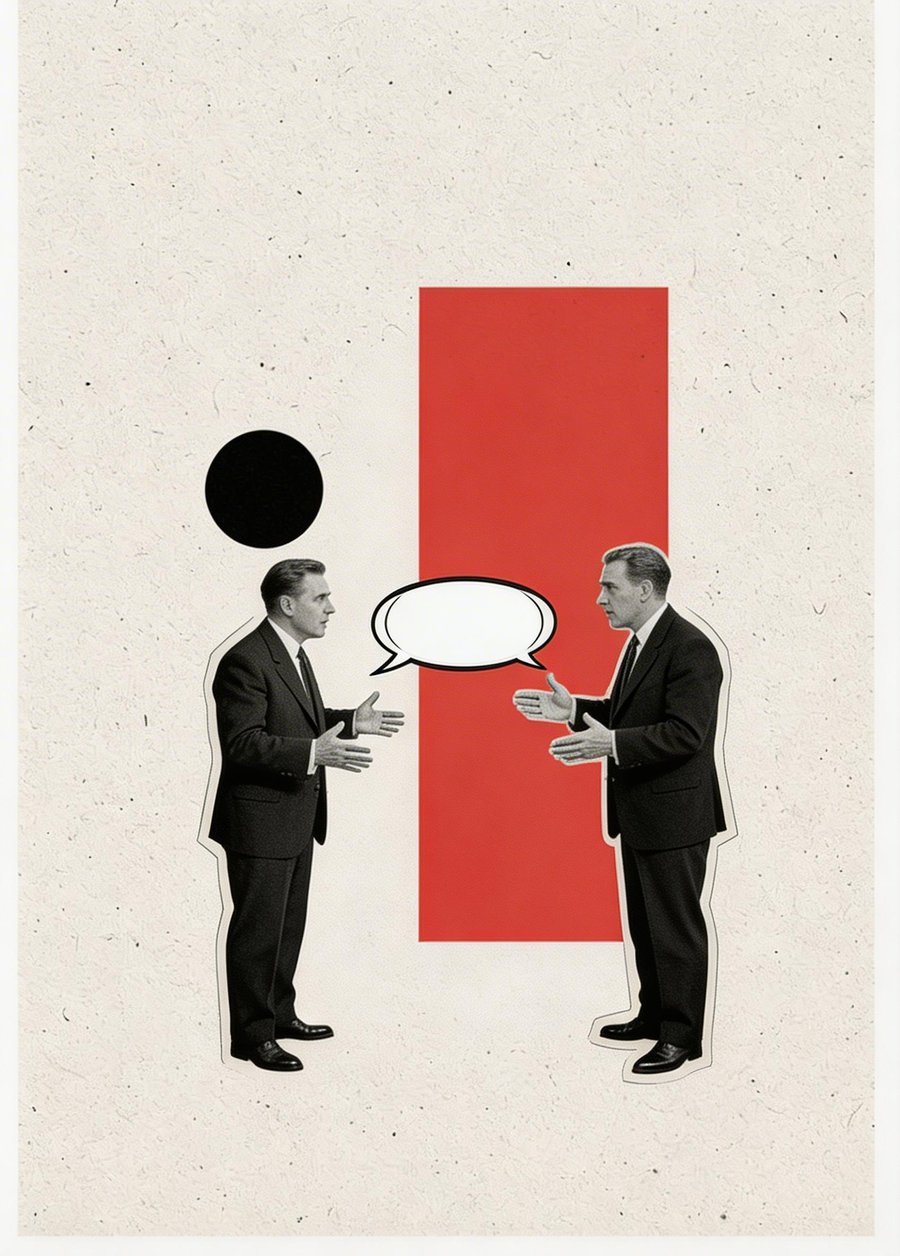
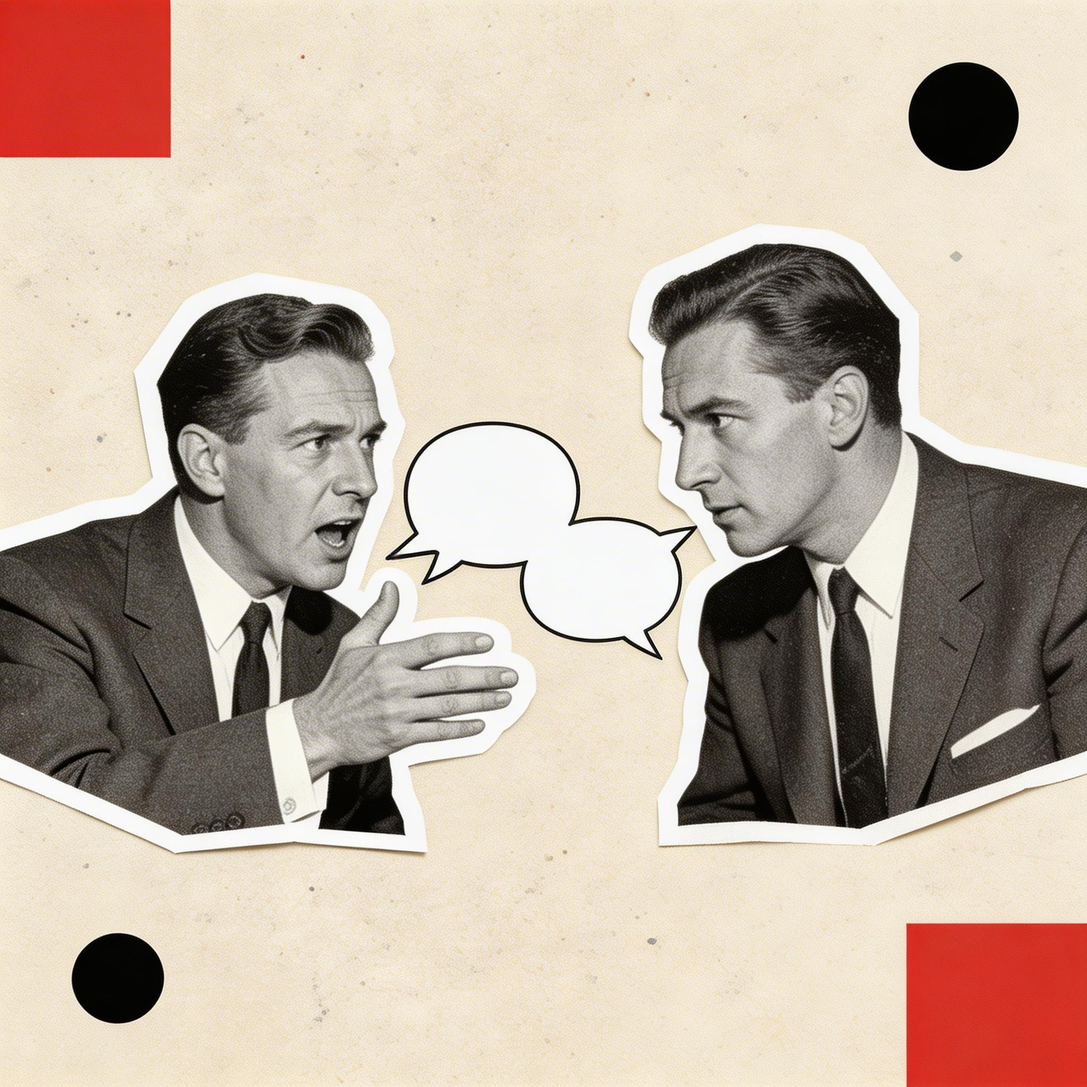
Implement 2-stage image generation pipeline
- Analyze montage style → generate from scratch (no reference copying)
- Original compositions with human figures
- Editorial collage aesthetic: cream paper, red/black accents, B&W cutouts
- Legally safe: pure text-to-image generation

🤖 Generated with [Claude Code](https://claude.com/claude-code)

diff --git a/hugo-site/scripts/imagegen.py b/hugo-site/scripts/imagegen.py
@@ -1,60 +1,140 @@
 #!/usr/bin/env python3
 """
-BytePlus Seedream Image Generation Service
+cmul8 Image Generation Pipeline
+
+Two-stage approach:
+1. Analyze reference images with vision model to extract style
+2. Generate original images from scratch using style description + content prompt
+
 Usage:
-    python imagegen.py "your prompt here" output.jpg
-    python imagegen.py --blog  # Generate all blog banners
-    python imagegen.py --ref image.png "prompt" output.jpg  # With reference image
+    python imagegen.py --blog                    # Generate all blog banners
+    python imagegen.py --analyze ref.png         # Analyze a reference image
+    python imagegen.py "prompt" output.jpg       # Generate single image
 """
 
 import requests
+import base64
 import sys
 import os
-import base64
+import json
 from pathlib import Path
 
-API_URL = "https://ark.ap-southeast.bytepluses.com/api/v3/images/generations"
+# BytePlus API Configuration
+API_BASE = "https://ark.ap-southeast.bytepluses.com/api/v3"
 API_KEY = os.environ.get("BYTEPLUS_API_KEY")
-MODEL = "seedream-5-0-260128"
+
+# Models
+VISION_MODEL = "seed-2-0-lite-260228"  # For style analysis (supports vision)
+IMAGE_MODEL = "seedream-5-0-260128"  # For generation
 
 if not API_KEY:
     print("Error: Set BYTEPLUS_API_KEY environment variable")
     sys.exit(1)
 
+
 def image_to_base64(image_path: str) -> str:
     """Convert image file to base64 data URI"""
     with open(image_path, "rb") as f:
         data = base64.b64encode(f.read()).decode()
-    ext = Path(image_path).suffix.lower()
-    mime = {"png": "image/png", "jpg": "image/jpeg", "jpeg": "image/jpeg", "webp": "image/webp"}.get(ext[1:], "image/png")
+    ext = Path(image_path).suffix.lower().lstrip('.')
+    mime = {"png": "image/png", "jpg": "image/jpeg", "jpeg": "image/jpeg"}.get(ext, "image/png")
     return f"data:{mime};base64,{data}"
 
-def generate_image(prompt: str, output_path: str, size: str = "2K", watermark: bool = False, reference_image: str = None) -> str:
-    """Generate an image using BytePlus Seedream API"""
 
+def analyze_style(reference_images: list) -> str:
+    """
+    Stage 1: Analyze reference images to extract style description
+    Returns a detailed style prompt for image generation
+    """
     headers = {
         "Content-Type": "application/json",
         "Authorization": f"Bearer {API_KEY}"
     }
 
+    # Build content with all reference images
+    content = []
+    for img_path in reference_images:
+        content.append({
+            "type": "image_url",
+            "image_url": {"url": image_to_base64(img_path)}
+        })
+
+    content.append({
+        "type": "text",
+        "text": """Analyze these editorial collage/montage illustrations and describe their visual style in detail.
+
+Focus on:
+1. Color palette (specific colors, tones, contrast)
+2. Composition style (layering, arrangement, negative space)
+3. Texture and materials (paper, printing effects, grain)
+4. Figure treatment (how people are depicted - cutout style, scale, positioning)
+5. Geometric elements (shapes, lines, accents)
+6. Overall aesthetic mood
+
+Output a concise style description (2-3 sentences) that could be used as a prompt to generate NEW, ORIGINAL images in this same aesthetic. Do NOT describe the specific content of these images - only the visual style and technique."""
+    })
+
     payload = {
-        "model": MODEL,
-        "prompt": prompt,
-        "response_format": "url",
-        "size": size,
-        "stream": False,
-        "watermark": watermark
+        "model": VISION_MODEL,
+        "messages": [{"role": "user", "content": content}],
+        "max_tokens": 500
     }
 
-    if reference_image:
-        payload["image"] = [image_to_base64(reference_image)]
-        print(f"Using reference: {reference_image}")
-
-    print(f"Generating: {prompt[:60]}...")
-    response = requests.post(API_URL, headers=headers, json=payload, timeout=120)
+    print("Analyzing reference styles...")
+    response = requests.post(
+        f"{API_BASE}/chat/completions",
+        headers=headers,
+        json=payload,
+        timeout=60
+    )
 
     if response.status_code != 200:
-        print(f"Error: {response.text}")
+        print(f"Vision API error: {response.text}")
+        return None
+
+    result = response.json()
+    style_description = result["choices"][0]["message"]["content"]
+    print(f"Style extracted: {style_description[:100]}...")
+    return style_description
+
+
+def generate_image(content_prompt: str, style_prompt: str, output_path: str) -> str:
+    """
+    Stage 2: Generate original image from scratch using content + style prompts
+    NO reference images passed - purely text-to-image
+    """
+    headers = {
+        "Content-Type": "application/json",
+        "Authorization": f"Bearer {API_KEY}"
+    }
+
+    # Combine style and content into a detailed prompt
+    full_prompt = f"""{style_prompt}
+
+Subject matter: {content_prompt}
+
+Important: Create an original artistic composition. Include human figures prominently. No text or watermarks."""
+
+    payload = {
+        "model": IMAGE_MODEL,
+        "prompt": full_prompt,
+        "response_format": "url",
+        "size": "2K",
+        "stream": False,
+        "watermark": False
+        # NO "image" parameter - generating from scratch
+    }
+
+    print(f"Generating: {content_prompt[:50]}...")
+    response = requests.post(
+        f"{API_BASE}/images/generations",
+        headers=headers,
+        json=payload,
+        timeout=120
+    )
+
+    if response.status_code != 200:
+        print(f"Generation error: {response.text}")
         return None
 
     data = response.json()
@@ -63,60 +143,76 @@ def generate_image(prompt: str, output_path: str, size: str = "2K", watermark: b
     # Download the image
     img_response = requests.get(image_url, timeout=60)
     if img_response.status_code == 200:
-        # Ensure directory exists
         Path(output_path).parent.mkdir(parents=True, exist_ok=True)
         with open(output_path, "wb") as f:
             f.write(img_response.content)
         print(f"Saved: {output_path}")
         return output_path
-    else:
-        print(f"Failed to download image")
-        return None
+    return None
 
 
 def generate_blog_banners():
-    """Generate banners for all blog posts using montage collage style"""
+    """Generate all blog banners using editorial montage style"""
 
-    base_path = Path(__file__).parent.parent / "static" / "images" / "blog"
-    ref_image = Path(__file__).parent.parent.parent / "reference.png"
+    output_dir = Path(__file__).parent.parent / "static" / "images" / "blog"
 
-    # Montage collage style prompts inspired by reference
+    # Pre-analyzed style from reference montage images:
+    # - Cream/beige textured paper backgrounds with subtle grain
+    # - Bold red rectangles and black circles as geometric accents
+    # - Vintage black-and-white cutout photography of human figures
+    # - Layered composition with overlapping elements
+    # - Editorial magazine collage aesthetic
+    # - Muted earth tones with pops of saturated red
+
+    style = """Editorial collage montage illustration style. Cream-colored textured paper background with subtle grain and speckles.
+Bold geometric shapes as accents: red rectangles and black circles. Human figures rendered in vintage black-and-white
+cutout photography style with white outlines, positioned dynamically in layered compositions. Retro magazine aesthetic
+with overlapping visual elements. Color palette: cream, black, muted grays, with bold red accents.
+No photorealistic rendering - maintain illustrated collage look with visible paper textures and cut edges."""
+
+    print(f"Using pre-analyzed montage style")
+    print(f"{'='*60}\n")
+
+    # Generate original banners from scratch (NO reference images)
     banners = [
         {
-            "prompt": "Editorial collage montage style, vintage paper texture background, two business people in difficult conversation, speech bubbles, red and black geometric accents, cut-out photography style, retro magazine aesthetic, cream background, no text",
-            "output": base_path / "negative-feedback.jpg"
+            "content": "Two business professionals in suits having an intense face-to-face conversation, speech bubbles between them, one gesturing while speaking, the other listening intently",
+            "output": output_dir / "negative-feedback.jpg"
         },
         {
-            "prompt": "Editorial collage montage style, vintage paper texture background, person climbing ladder of success, desk and office elements, red geometric rectangle accent, black circle, cut-out photography style, retro magazine aesthetic, cream background, no text",
-            "output": base_path / "first-time-manager.jpg"
+            "content": "Person in business attire climbing a tall ladder, reaching toward the top, smaller figures of team members below looking up, desk and office items scattered artistically",
+            "output": output_dir / "first-time-manager.jpg"
         },
         {
-            "prompt": "Editorial collage montage style, vintage paper texture background, person with shield or boundary gesture, workplace scene, red and black geometric shapes, cut-out photography style, retro magazine aesthetic, cream background, no text",
-            "output": base_path / "say-no.jpg"
+            "content": "Confident professional with hand raised in stop gesture, papers and documents floating around them, maintaining calm composure amid chaos, clock elements showing time pressure",
+            "output": output_dir / "say-no.jpg"
         }
     ]
 
     for banner in banners:
-        generate_image(banner["prompt"], str(banner["output"]), reference_image=str(ref_image) if ref_image.exists() else None)
+        generate_image(banner["content"], style, str(banner["output"]))
 
     print("\nAll blog banners generated!")
 
 
 if __name__ == "__main__":
     if len(sys.argv) < 2:
-        print("Usage:")
-        print("  python imagegen.py 'prompt' output.jpg")
-        print("  python imagegen.py --ref image.png 'prompt' output.jpg")
-        print("  python imagegen.py --blog")
+        print(__doc__)
         sys.exit(1)
 
     if sys.argv[1] == "--blog":
         generate_blog_banners()
-    elif sys.argv[1] == "--ref" and len(sys.argv) >= 5:
-        generate_image(sys.argv[3], sys.argv[4], reference_image=sys.argv[2])
+    elif sys.argv[1] == "--analyze":
+        if len(sys.argv) < 3:
+            print("Usage: python imagegen.py --analyze image.png")
+            sys.exit(1)
+        style = analyze_style([sys.argv[2]])
+        if style:
+            print(f"\nStyle description:\n{style}")
     elif len(sys.argv) >= 3:
-        generate_image(sys.argv[1], sys.argv[2])
+        # Simple generation with default style
+        default_style = "Editorial collage montage style with vintage paper texture, bold geometric shapes, cutout photography aesthetic, muted earth tones with red and black accents"
+        generate_image(sys.argv[1], default_style, sys.argv[2])
     else:
-        print("Error: Invalid arguments")
-        print("  python imagegen.py 'prompt' output.jpg")
-        print("  python imagegen.py --ref image.png 'prompt' output.jpg")
+        print("Error: Need output path")
+        print("Usage: python imagegen.py 'prompt' output.jpg")
